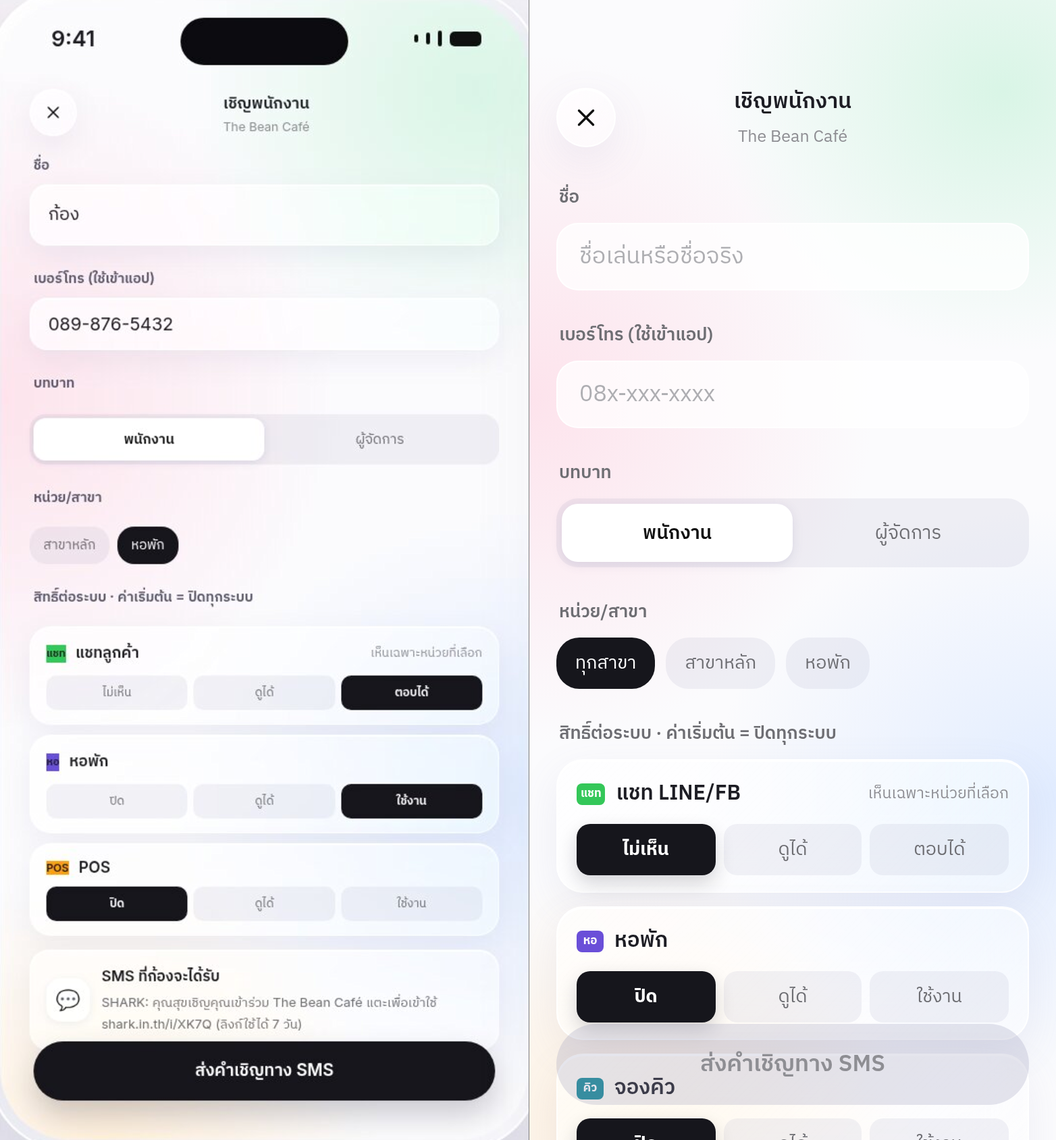
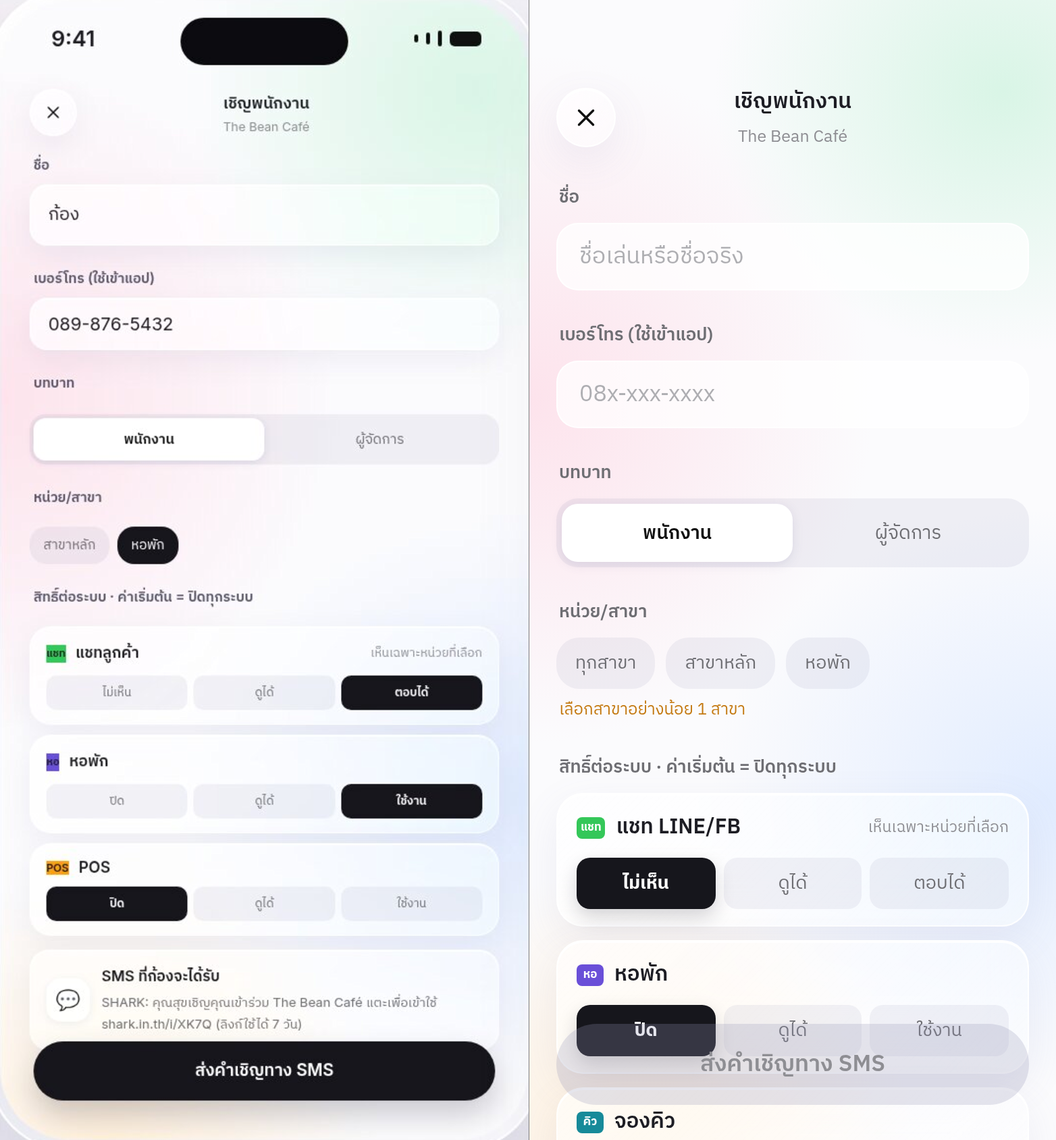
fix(sec-app): S2.21 round 2 (RESOLUTIONS §V) — unit [] vs ["*"], per-key badge, PUT only changed role/units, demote resets grid, invite unit defaults, bad_units, link only when SMS not sent, manager invite buttons, G1 ref guard + sign-out, newOwner in delete preview, fake phone fixtures

diff --git a/apps/mobile/app/(app)/secretary/staff/[membershipId].tsx b/apps/mobile/app/(app)/secretary/staff/[membershipId].tsx
@@ -14,7 +14,7 @@ import { useSafeAreaInsets } from "react-native-safe-area-context";
 import { Text } from "@/src/components/ui/text";
 import { AiryScreen, Chip, Glass, Icon, IconBtn, Note, PrimaryButton, Segment, Sheet, TopBar } from "@/src/components/airy";
 import { ChatLevelPicker } from "@/src/components/secretary/ChatLevelPicker";
-import { LevelGrid, gridModules, levelOf, levelsAvailable, type ModuleLevel } from "@/src/components/secretary/LevelGrid";
+import { LevelGrid, gridModules, levelOf, levelsAvailable, offOnly, type ModuleLevel } from "@/src/components/secretary/LevelGrid";
 import { roleLabel } from "@/src/components/secretary/AddMemberSheet";
 import { dateBkk } from "@/src/components/secretary/bkk";
 import {
@@ -37,9 +37,10 @@ import { radii, size, spacing, type as T } from "@/src/theme/tokens";
 
 const ALL = "*";
 type Role = "STAFF" | "MANAGER";
-type Form = { role: string; units: string[]; levels: Record<string, ModuleLevel>; chat: ChatLevel };
+type Form = { role: string; units: string[]; levels: Record<string, string>; chat: ChatLevel };
 const sameUnits = (a: string[], b: string[]) => [...a].sort().join(",") === [...b].sort().join(",");
-const allUnits = (u: string[]) => u.length === 0 || u.includes(ALL);
+/** R-S2.21a: เฉพาะ ["*"] = ทุกสาขา · [] = ยังไม่มีสาขา */
+const allUnits = (u: string[]) => u.includes(ALL);
 /** แชทลูกค้า 3 ระดับเท่านั้น (CHAT_LEVELS · R-S1.25h) — ค่าอื่นไม่ส่ง */
 const isChatLevel = (v: string): v is ChatLevel => v === "NONE" || v === "VIEW" || v === "REPLY";
 const CONFIRM_TEXT = {
@@ -83,7 +84,7 @@ export default function StaffPermissionScreen() {
     if (a.status === "fulfilled") setAccess((a.value.items ?? []).map((x) => x.module));
     if (d.status === "fulfilled" && p) setOnDuty((d.value.items ?? []).some((x) => x.userId === p.userId && x.onDuty === true));
     if (p) {
-      const f: Form = { role: p.role, units: p.units, levels: Object.fromEntries(Object.keys(p.levels).map((m) => [m, levelOf(p.levels, m)])), chat: p.chat };
+      const f: Form = { role: p.role, units: p.units, levels: { ...p.levels }, chat: p.chat }; // ระดับดิบของ server (โมดูล OFF-only ที่มีคีย์รายตัว = ป้าย "ให้รายคีย์ไว้")
       setSaved(f);
       setForm(f);
     }
@@ -101,16 +102,19 @@ export default function StaffPermissionScreen() {
   const roleOptions: Role[] = owner ? ["STAFF", "MANAGER"] : ["STAFF"];
   const managerForm = form?.role === "MANAGER";
 
+  // R-S2.21c: ลดผู้จัดการ → พนักงาน — ระดับที่แสดงของผู้จัดการคือค่าเต็มจาก staffViewOf (ไม่ใช่คีย์ที่เก็บจริง) ⇒ ส่งทุกโมดูลในกริด + แชท ตามที่เจ้าของเลือก
+  const demoting = saved?.role === "MANAGER" && form?.role === "STAFF";
   const changedLevels = useMemo(() => {
     if (!form || !saved) return {};
     const out: Record<string, ModuleLevel> = {};
     for (const m of modules) {
+      if (offOnly(m)) continue; // ระดับเดียว (ปิด) — ไม่ส่ง (คีย์รายตัวคงไว้)
       const l = levelOf(form.levels, m);
-      // ส่งเฉพาะระดับที่โมดูลมีจริง (levelsAvailable) และต่างจากเดิม
-      if (l !== levelOf(saved.levels, m) && levelsAvailable(m).includes(l)) out[m] = l;
+      // ส่งเฉพาะระดับที่โมดูลมีจริง (levelsAvailable) และต่างจากเดิม · ลดบทบาท = ส่งทั้งกริด
+      if ((demoting || l !== levelOf(saved.levels, m)) && levelsAvailable(m).includes(l)) out[m] = l;
     }
     return out;
-  }, [form, saved, modules]);
+  }, [form, saved, modules, demoting]);
   const dirty = !!form && !!saved && (form.role !== saved.role || !sameUnits(form.units, saved.units) || form.chat !== saved.chat || Object.keys(changedLevels).length > 0);
 
   const toggleUnit = (id: string) =>
@@ -119,7 +123,16 @@ export default function StaffPermissionScreen() {
       if (id === ALL) return { ...f, units: [ALL] };
       const base = f.units.filter((u) => u !== ALL);
       const next = base.includes(id) ? base.filter((u) => u !== id) : [...base, id];
-      return { ...f, units: next.length ? next : [ALL] };
+      return { ...f, units: next }; // ว่าง = ยังไม่มีสาขา (R-S2.21a)
+    });
+
+  // เลือกบทบาท: ผู้จัดการ → พนักงาน ⇒ กริดเริ่มที่ปิดทุกระบบ + แชทไม่เห็น ให้เจ้าของเลือกเอง (ไม่สืบค่าเต็มของผู้จัดการ) · กลับเป็นผู้จัดการ = ค่าที่โหลดมา
+  const pickRole = (k: string) =>
+    setForm((f) => {
+      if (!f || !saved) return f;
+      if (k === "STAFF" && saved.role === "MANAGER") return { ...f, role: k, levels: {}, chat: "NONE" };
+      if (k === saved.role) return { ...f, role: k, levels: saved.levels, chat: saved.chat };
+      return { ...f, role: k };
     });
 
   const save = async () => {
@@ -128,11 +141,12 @@ export default function StaffPermissionScreen() {
     setBusy(true);
     setNote(null);
     try {
+      // R-S2.21c: role / unitIds ส่งเฉพาะเมื่อเปลี่ยน
       await putStaff(membershipId, {
-        role: form.role === "MANAGER" ? "MANAGER" : "STAFF",
-        unitIds: form.units,
+        ...(form.role !== saved.role ? { role: form.role === "MANAGER" ? "MANAGER" : "STAFF" } : {}),
+        ...(!sameUnits(form.units, saved.units) ? { unitIds: form.units } : {}),
         levels: changedLevels,
-        ...(form.chat !== saved.chat && isChatLevel(form.chat) ? { chat: form.chat } : {}),
+        ...((demoting || form.chat !== saved.chat) && isChatLevel(form.chat) ? { chat: form.chat } : {}),
         extraPermissions: {},
       });
       setNote({ text: t("perm.saved"), warn: false });
@@ -165,7 +179,8 @@ export default function StaffPermissionScreen() {
   };
 
   const back = () => (router.canGoBack() ? router.back() : router.replace("/secretary/staff"));
-  const unitNames = (u: string[]) => (allUnits(u) ? t("perm.unitAll") : u.map((id) => unitOpts.find((x) => x.id === id)?.name ?? t("perm.unitOne")).join(", "));
+  const unitNames = (u: string[]) =>
+    allUnits(u) ? t("perm.unitAll") : u.length === 0 ? t("perm.unitNone") : u.map((id) => unitOpts.find((x) => x.id === id)?.name ?? t("perm.unitOne")).join(", ");
   const jd = dateBkk(person?.joinedAt);
   const sub = person
     ? [
@@ -202,7 +217,7 @@ export default function StaffPermissionScreen() {
             <Segment
               testID="perm-role"
               value={form.role}
-              onChange={(k) => editable && setForm((f) => (f ? { ...f, role: k } : f))}
+              onChange={(k) => editable && pickRole(k)}
               options={(editable ? roleOptions : [person.role]).map((r) => ({ key: r, label: roleLabel(t, r) }))}
             />
 

diff --git a/apps/mobile/app/(app)/secretary/staff/invite.tsx b/apps/mobile/app/(app)/secretary/staff/invite.tsx
@@ -20,6 +20,7 @@ import {
   inviteReasonOf,
   isDenied,
   normalizeInvites,
+  normalizeStaff,
   normalizeUnits,
   secDeleteId,
   secGet,
@@ -54,7 +55,14 @@ const REASON: Partial<Record<InviteReason, I18nKey>> = {
   throttled: "inv.err.throttled",
   bad_phone: "inv.err.bad_phone",
   forbidden: "inv.err.forbidden",
+  bad_units: "inv.err.bad_units",
 };
+
+/** ค่าเริ่มต้นสาขาของคำเชิญ (R-S2.21d) */
+function defaultUnits(owner: boolean, unitCount: number, mine: string[]): string[] {
+  if (owner) return unitCount > 1 ? [] : [ALL];
+  return mine.length ? (mine.includes(ALL) ? [ALL] : mine) : [];
+}
 
 export default function SecretaryStaffInviteScreen() {
   const { c } = useTheme();
@@ -70,7 +78,10 @@ export default function SecretaryStaffInviteScreen() {
   const [name, setName] = useState("");
   const [phone, setPhone] = useState("");
   const [inviteRole, setInviteRole] = useState<"STAFF" | "MANAGER">("STAFF");
-  const [units, setUnits] = useState<string[]>([ALL]);
+  // R-S2.21d: ค่าเริ่มต้นสาขาตั้งหลังโหลด — OWNER ที่มี >1 สาขา ต้องเลือกเอง · MANAGER = สาขาของตัวเอง
+  const [units, setUnits] = useState<string[]>([]);
+  const unitsTouched = useRef(false);
+  const [myUnits, setMyUnits] = useState<string[] | null>(null);
   const [levels, setLevels] = useState<Record<string, ModuleLevel>>({});
   const [chat, setChat] = useState<ChatLevel>("NONE");
   const [unitOpts, setUnitOpts] = useState<UnitOpt[]>([]);
@@ -100,27 +111,37 @@ export default function SecretaryStaffInviteScreen() {
       let live = true;
       void Promise.allSettled([secGet("secretary/staff"), secGet("secretary/access")]).then(([s, a]) => {
         if (!live) return;
-        if (s.status === "fulfilled") setUnitOpts(normalizeUnits(s.value));
+        if (s.status === "fulfilled") {
+          const opts = normalizeUnits(s.value);
+          const mine = normalizeStaff(s.value).people.find((x) => x.me)?.units ?? [];
+          setUnitOpts(opts);
+          setMyUnits(mine);
+          if (!unitsTouched.current) setUnits(defaultUnits(owner, opts.length, mine));
+        } else if (!unitsTouched.current) setUnits(owner ? [ALL] : []);
         if (a.status === "fulfilled") setModules(gridModules((a.value.items ?? []).map((x) => x.module)));
       });
       void loadInvites();
       return () => {
         live = false;
       };
-    }, [loadInvites, activeTenantId]),
+    }, [loadInvites, activeTenantId, owner]),
   );
 
   const e164 = normalizeThaiMobile(phone);
   const nameOk = name.trim().length > 0 && Array.from(name.trim()).length <= NAME_MAX;
-  const ready = manage && nameOk && !!e164 && units.length > 0 && !busy;
+  const ready = manage && !denied && nameOk && !!e164 && units.length > 0 && !busy;
+  // MANAGER ให้ได้เฉพาะสาขาของตัวเอง (server ตรวจซ้ำ bad_units) · ทุกสาขาเฉพาะเมื่อตัวเองมี "*"
+  const canAll = owner || (myUnits ?? []).includes(ALL);
+  const shownUnits = owner || canAll ? unitOpts : unitOpts.filter((u) => (myUnits ?? []).includes(u.id));
 
-  const toggleUnit = (id: string) =>
+  const toggleUnit = (id: string) => {
+    unitsTouched.current = true;
     setUnits((cur) => {
-      if (id === ALL) return [ALL];
+      if (id === ALL) return cur.includes(ALL) ? [] : [ALL];
       const base = cur.filter((u) => u !== ALL);
-      const next = base.includes(id) ? base.filter((u) => u !== id) : [...base, id];
-      return next.length ? next : [ALL]; // ว่าง = ทุกสาขา (ไม่ส่งรายการว่าง)
+      return base.includes(id) ? base.filter((u) => u !== id) : [...base, id]; // ว่าง = ยังไม่เลือก ⇒ ปุ่มส่งปิด (ไม่ส่งรายการว่าง)
     });
+  };
 
   const smsText = useMemo(() => t("inv.sms", { shop, name: name.trim() || t("inv.smsName") }), [t, shop, name]);
 
@@ -180,6 +201,8 @@ export default function SecretaryStaffInviteScreen() {
     if (i) await run(() => secDeleteId("secretary/staff/invites/[id]", i.inviteId), t("inv.cancelled"));
   };
 
+  // R-S2.21d: MANAGER แตะได้เฉพาะคำเชิญของพนักงาน (R-S1.25d)
+  const canTouch = (i: StaffInvite) => manage && (owner || i.role === "STAFF");
   const close = () => (router.canGoBack() ? router.back() : router.replace("/secretary/staff"));
   const until = result?.expiresAt ? dateBkk(result.expiresAt) : null;
   const isManagerInvite = inviteRole === "MANAGER";
@@ -236,11 +259,13 @@ export default function SecretaryStaffInviteScreen() {
 
         <Text style={[styles.label, { color: c.textDim }]}>{t("inv.units")}</Text>
         <View testID="inv-unit" style={styles.chips}>
-          <Chip testID="inv-unit-all" active={units.includes(ALL)} label={t("perm.unitAll")} onPress={() => toggleUnit(ALL)} />
-          {unitOpts.map((u) => (
+          {canAll ? <Chip testID="inv-unit-all" active={units.includes(ALL)} label={t("perm.unitAll")} onPress={() => toggleUnit(ALL)} /> : null}
+          {shownUnits.map((u) => (
             <Chip key={u.id} testID={`inv-unit-${u.id}`} active={units.includes(u.id)} label={u.name} onPress={() => toggleUnit(u.id)} />
           ))}
         </View>
+
+        {units.length === 0 ? <Text testID="inv-unit-pick" style={[styles.hint, { color: c.warn.fg }]}>{t("inv.unitPick")}</Text> : null}
 
         <Text style={[styles.label, { color: c.textDim }]}>{t("inv.levels")}</Text>
         {isManagerInvite ? (
@@ -275,7 +300,7 @@ export default function SecretaryStaffInviteScreen() {
             <Text style={[styles.smsH, { color: c.text }]}>
               {result.sms === "sent" ? t("inv.sent", { phone: maskPhone(result.phone) }) : t("inv.linkReady", { phone: maskPhone(result.phone) })}
             </Text>
-            {result.link ? (
+            {result.link && result.sms !== "sent" ? (
               <Text testID="inv-result-link" selectable style={[styles.link, { color: c.text, backgroundColor: c.chip.bg }]}>
                 {result.link}
               </Text>
@@ -286,7 +311,14 @@ export default function SecretaryStaffInviteScreen() {
 
         {invites.length ? <Text style={[styles.label, { color: c.textDim }]}>{t("inv.pendingTitle", { n: invites.length })}</Text> : null}
         {invites.map((i) => (
-          <InviteRow key={i.inviteId} invite={i} ids={ROW_IDS} busy={busy} onResend={manage ? () => resend(i) : undefined} onCancel={manage && !i.expired ? () => setCancelling(i) : undefined} />
+          <InviteRow
+            key={i.inviteId}
+            invite={i}
+            ids={ROW_IDS}
+            busy={busy}
+            onResend={canTouch(i) ? () => resend(i) : undefined}
+            onCancel={canTouch(i) && !i.expired ? () => setCancelling(i) : undefined}
+          />
         ))}
       </ScrollView>
 

diff --git a/apps/mobile/app/(app)/business/new.tsx b/apps/mobile/app/(app)/business/new.tsx
@@ -5,7 +5,7 @@
 //      กิจการที่ 2–3 ไปห้องแรก /secretary/room/<roomId> ถ้าเซิร์ฟเวอร์เปิดให้ ไม่งั้น /secretary
 //   เข้าจาก BusinessSwitcherSheet "+ เพิ่มกิจการ" (S2.1) และจากยามหน้าประตูหลังสมัครใหม่ที่ยังไม่มีร้าน (RESOLUTIONS R-S2.12a · ธงสลับในใบนี้)
 //   ผู้ที่มีคำเชิญค้างถึงเบอร์ตัวเอง เห็นการ์ด "คุณได้รับคำเชิญจาก <ร้าน>" ด้านบน (R-S1.25b · กดรับแทนการสร้างร้านใหม่)
-import { useState } from "react";
+import { useRef, useState } from "react";
 import { Pressable, ScrollView, StyleSheet, View } from "react-native";
 import { useRouter } from "expo-router";
 import { useSafeAreaInsets } from "react-native-safe-area-context";
@@ -41,7 +41,8 @@ export default function BusinessNewScreen() {
   const t = useT();
   const router = useRouter();
   const insets = useSafeAreaInsets();
-  const { tenants, refreshMe, switchTenant } = useAuth();
+  const { tenants, refreshMe, switchTenant, signOut } = useAuth();
+  const busyRef = useRef(false); // R-S2.21d: กันกดซ้ำ (state ยังไม่ทันวาดใหม่)
   const [name, setName] = useState("");
   const [type, setType] = useState<TenantType>("restaurant");
   const [systems, setSystems] = useState<string[]>(PRESET.restaurant);
@@ -60,7 +61,8 @@ export default function BusinessNewScreen() {
   const close = () => (router.canGoBack() ? router.back() : router.replace("/secretary"));
 
   const submit = async () => {
-    if (!nameOk || busy) return;
+    if (!nameOk || busyRef.current) return;
+    busyRef.current = true;
     setBusy(true);
     setNote(null);
     try {
@@ -77,6 +79,7 @@ export default function BusinessNewScreen() {
     } catch (e) {
       setNote(e instanceof ApiError && e.code === "rate_limited" ? t("biz.err.rate") : (serverNote(e) ?? t("biz.err.generic")));
     } finally {
+      busyRef.current = false;
       setBusy(false);
     }
   };
@@ -143,6 +146,12 @@ export default function BusinessNewScreen() {
         <Text testID="biz-new-explain" style={[styles.explain, { color: c.textMuted }]}>
           {t("biz.explain")}
         </Text>
+        {first ? (
+          // R-S2.21d: สมัครใหม่ยังไม่มีกิจการ = ทางออกเดียวของจอนี้
+          <Pressable testID="biz-new-logout" accessibilityRole="button" onPress={() => void signOut()} style={styles.logout}>
+            <Text style={[styles.logoutT, { color: c.textMuted }]}>{t("biz.logout")}</Text>
+          </Pressable>
+        ) : null}
         {note ? (
           <Note warn testID="biz-new-note">
             {note}
@@ -168,5 +177,7 @@ const styles = StyleSheet.create({
   sysT: { fontSize: 12.5, fontWeight: "600" },
   hint: { fontSize: T.cap - 0.5, marginTop: 8, marginLeft: 2 },
   explain: { fontSize: T.cap, lineHeight: 19, marginTop: F.v(24) },
+  logout: { alignSelf: "center", paddingVertical: 10, paddingHorizontal: 16, marginTop: spacing.md },
+  logoutT: { fontSize: T.sub, textDecorationLine: "underline" },
   cta: { position: "absolute", left: spacing.page, right: spacing.page },
 });

diff --git a/apps/mobile/src/components/secretary/LevelGrid.tsx b/apps/mobile/src/components/secretary/LevelGrid.tsx
@@ -208,7 +208,13 @@ export function LevelGrid({
         return (
           <Glass key={m} testID={`${testID}-${m}`} radius={radii.sugg} pad={{ v: 12, h: 14 }}>
             <SysHead module={m} />
-            {locked ? (
+            {locked && (levels[m] === "VIEW" || levels[m] === "USE") ? (
+              // R-S2.21b: server บอกว่ามีสิทธิ์ (ให้รายคีย์ไว้) แต่โมดูลนี้ไม่มีระดับให้เลือก ⇒ ไม่แสดงเป็น "ปิด"
+              <View testID={`${testID}-${m}-perkey`} style={[styles.lock, { backgroundColor: c.warn.bg }]}>
+                <Icon name="key" size={14} color={c.warn.fg} />
+                <Text style={[styles.lockT, { color: c.warn.fg }]}>{t("perm.perKey")}</Text>
+              </View>
+            ) : locked ? (
               <View testID={`${testID}-${m}-locked`} style={[styles.lock, { backgroundColor: c.seg.track }]}>
                 <Icon name="lock" size={14} color={c.textMuted} />
                 <Text style={[styles.lockT, { color: c.textMuted }]}>{t("perm.offOnly")}</Text>

diff --git a/apps/mobile/src/i18n/th.ts b/apps/mobile/src/i18n/th.ts
@@ -725,6 +725,12 @@ const th = {
   "inv.recv.accepting": "กำลังรับ…",
   "inv.recv.fail": "รับคำเชิญไม่สำเร็จ ลองใหม่อีกครั้ง",
   "perm.joined": "เข้าร่วม {d} {month}",
+  "biz.logout": "ออกจากระบบ",
+  "inv.err.bad_units": "มีสาขาที่ให้ไม่ได้ (ไม่อยู่ในกิจการหรือเกินสาขาของคุณ) — เลือกใหม่",
+  "inv.unitPick": "เลือกสาขาอย่างน้อย 1 สาขา",
+  "perm.unitNone": "ยังไม่มีสาขา",
+  "perm.perKey": "ให้รายคีย์ไว้",
+  "acct.delete.toOwner": "{name} (ให้ {owner})",
   "perm.title": "สิทธิ์ต่อคน",
   "perm.role": "บทบาท",
   "perm.units": "หน่วย/สาขา",

diff --git a/apps/mobile/app/(app)/secretary/settings/account.tsx b/apps/mobile/app/(app)/secretary/settings/account.tsx
@@ -234,7 +234,11 @@ export default function AccountScreen() {
             ? t("acct.delete.loading")
             : [
                 preview.tenantsToDelete?.length ? t("acct.delete.toDelete", { list: list(preview.tenantsToDelete) }) : null,
-                preview.tenantsHandedOver?.length ? t("acct.delete.handedOver", { list: list(preview.tenantsHandedOver) }) : null,
+                preview.tenantsHandedOver?.length
+                  ? t("acct.delete.handedOver", {
+                      list: preview.tenantsHandedOver.map((x) => (x.newOwner ? t("acct.delete.toOwner", { name: x.name, owner: x.newOwner }) : x.name)).join(", "),
+                    })
+                  : null,
                 preview.tenantsLeftAlone?.length ? t("acct.delete.leftAlone", { list: list(preview.tenantsLeftAlone) }) : null,
                 t("acct.delete.personal"),
               ]

diff --git a/apps/mobile/src/i18n/en.ts b/apps/mobile/src/i18n/en.ts
@@ -726,6 +726,12 @@ const en: Record<I18nKey, string> = {
   "inv.recv.accepting": "Accepting...",
   "inv.recv.fail": "Could not accept the invite. Please try again.",
   "perm.joined": "Joined {month} {d}",
+  "biz.logout": "Sign out",
+  "inv.err.bad_units": "Some branches can't be granted (not in this business or beyond yours) - pick again",
+  "inv.unitPick": "Pick at least one branch",
+  "perm.unitNone": "No branch yet",
+  "perm.perKey": "Granted per key",
+  "acct.delete.toOwner": "{name} (to {owner})",
   "perm.title": "Permissions",
   "perm.role": "Role",
   "perm.units": "Units/branches",

diff --git a/ledger/wo-notes/sec-s2.21.md b/ledger/wo-notes/sec-s2.21.md
@@ -115,5 +115,18 @@ console.log(JSON.stringify(out));
 ```
 แล้วแปลงเป็น `{ l, r, w }` (ตัดชื่อโมดูลหน้าจุดแรก) วางใน `LevelGrid.tsx`
 
+## 9. รอบ 2 ตามรีวิว W (RESOLUTIONS §V) — merge ทิป 4cb52316 ก่อนแก้
+| ข้อ | แก้ที่ | หลักฐาน (`s2.21-interaction/result.json`) |
+|---|---|---|
+| R-S2.21a `[]` = ยังไม่มีสาขา · `["*"]` = ทุกสาขา | `[membershipId].tsx` `allUnits` = มี "*" · `unitNames` [] ⇒ `perm.unitNone` · ถอนสาขาสุดท้าย = [] | หัว m2: "\nน้ำ\nยังไม่มีสาขา · ผู้จัดการ · เข้าร่วม 2 ก.ย." · ถอนสาขาเดียวของก้อง ⇒ "แชท\nแชท LINE/FB\nยังไม่มีสาขา\nไม่เห็น\nดูได้\nตอบได้" |
+| R-S2.21b OFF-only ที่ server ให้ระดับไว้ ⇒ "ให้รายคีย์ไว้" | `LevelGrid` (`<testID>-<module>-perkey`) · ฟอร์ม G3 เก็บระดับดิบของ server · ไม่ส่งระดับของโมดูล OFF-only | settings=VIEW ⇒ perkey 1 "\nให้รายคีย์ไว้" |
+| R-S2.21c role/unitIds เฉพาะเมื่อเปลี่ยน · ลด MANAGER→STAFF รีเซ็ตกริด | `save` + `pickRole` (ลดบทบาท ⇒ ระดับว่าง/แชท NONE แล้วส่งทั้งกริด + แชท — ระดับที่ "เก็บจริง" ของผู้จัดการ DTO ไม่ส่ง (staffViewOf ให้ค่าเต็ม) จึงเริ่มที่ปิดให้เจ้าของเลือก) | PUT แก้ระดับ: ["{\"levels\":{\"dorm\":\"VIEW\"},\"chat\":\"VIEW\",\"extraPermissions\":{}}"] · แก้สาขา: ["{\"unitIds\":[\"u-dorm\",\"u-main\"],\"levels\":{},\"extraPermissions\":{}}"] · ลดบทบาท: ["{\"role\":\"STAFF\",\"levels\":{\"dorm\":\"USE\",\"booking\":\"OFF\",\"account\":\"OFF\",\"pos\":\"OFF\",\"ai\":\"OFF\"},\"chat\":\"NONE\",\"extraPermissions\":{}}"] |
+| R-S2.21d สาขาเริ่มต้น · bad_units · ลิงก์ · MANAGER ปุ่มคำเชิญ · ready+denied · G1 ref · ลิงก์ออก | `invite.tsx` `defaultUnits` (OWNER >1 สาขา = ว่าง ต้องเลือก · MANAGER = สาขาตัวเอง · ซ่อนชิปทุกสาขาถ้าตัวเองไม่มี "*") · REASON +bad_units · ลิงก์เฉพาะ sms≠sent · `canTouch` · `ready` มี `!denied` · `new.tsx` `busyRef` + `biz-new-logout` (เมื่อยังไม่มีกิจการ) | OWNER ยังไม่เลือก: POST 0 → เลือกทุกสาขา ["{\"name\":\"ก้อง\",\"phone\":\"+66800000404\",\"role\":\"STAFF\",\"unitIds\":[\"*\"],\"permissions\":{}}"] · MANAGER ชิป ["inv-unit-u-dorm"] · คำเชิญ {"rows": 2, "resend": 1, "cancel": 1} (ใบ MANAGER ไม่มีปุ่ม) · body ["{\"name\":\"ก้อง\",\"phone\":\"+66800000404\",\"role\":\"STAFF\",\"unitIds\":[\"u-dorm\"],\"permissions\":{}}"] · sms=sent ⇒ ลิงก์ 0 · bad_units ⇒ "มีสาขาที่ให้ไม่ได้ (ไม่อยู่ในกิจการหรือเกินสาขาของคุณ) — เลือกใหม่" · G1 กดซ้ำ 2 ครั้ง ⇒ POST 1 · ลิงก์ออก 1 |
+| W-11 newOwner | `account.tsx` `acct.delete.toOwner` | "กิจการที่จะถูกลบ: บลูเฮาส์ หอพัก\nกิจการที่โอนให้คนอื่น: The Bean Café (ให้ น้ำ)\nกิจการที่คุณออกจากทีม: Sweet Studio\nข้อมูลส่วนตัวและเลขาของคุณจะถูกลบ · ออกจากระบบทุกเครื่องทันที" |
+| W-13 เบอร์ปลอมชัด | fixtures `+668000001xx/2xx` · masked `080-•••-0303/0505` · สคริปต์กด `0800000404` | — |
+- ภาพ/คู่ถ่ายใหม่ทั้งหมดบน dist นี้ (path เดิม §4) + `s2.21-interaction/{g2-manager,g3-demote}.png`
+- ผลรอบ 2: spec s2.21 forced ×2 = 12/12 exit 0 · s2.2 11/11 · s2.4 7/7 · s2.5 9/9 · s2.7 16/16 · s2.10 10/10 · qc-sec-s2.1 14/14 · qc-sec-s2.12 13/13 (M-1 typecheck 0 · D-1/D-2 fitness ผ่านทุกรอบ) · s2.17 ไม่ได้รัน (จอ S2.17 ยังไม่อยู่ในสาขานี้ — โครง)
+- ตารางระดับ→คีย์คงไว้ (ตั๋ว server: invite รับ levels+chat ⇒ ลบใน S2.14)
+
 ## ต่อจากนี้ (ถ้า restart)
 แก้จอแล้ว: รันบล็อก §4 (export ใหม่) → `bash scripts/iso.sh env QC_FORCE=1 SPEC=scripts/qc-sec-specs/s2.21.json pnpm exec tsx scripts/qc-sec-screen.mts` ×2 · `apps/mobile/node_modules` = symlink (ไม่ commit)
